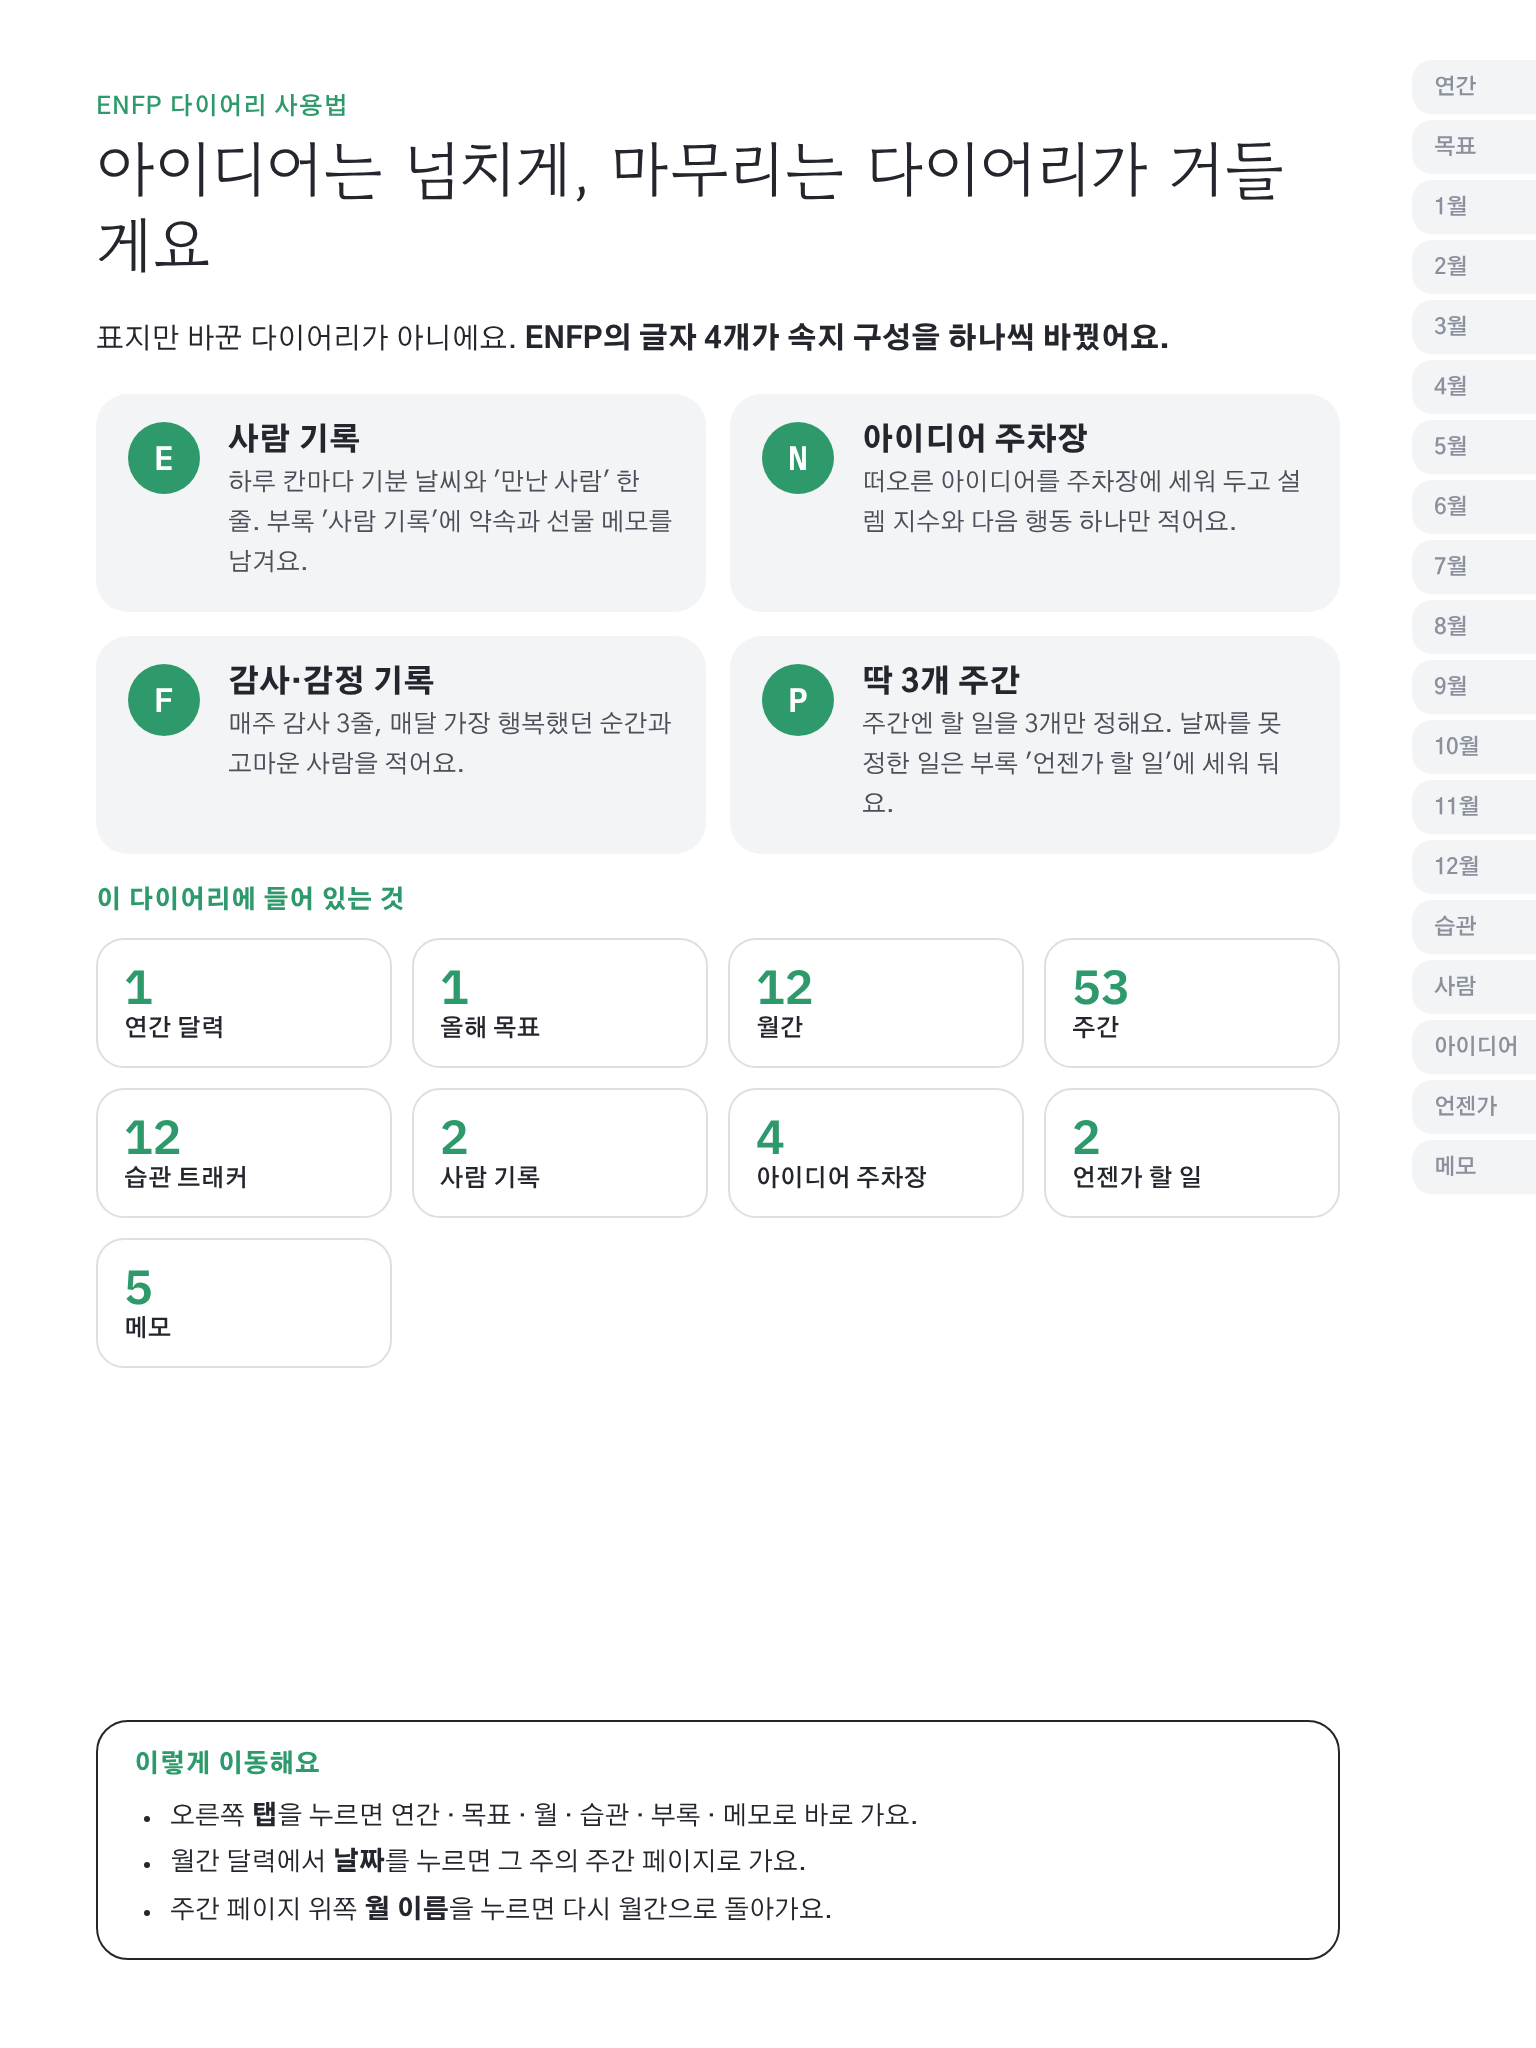
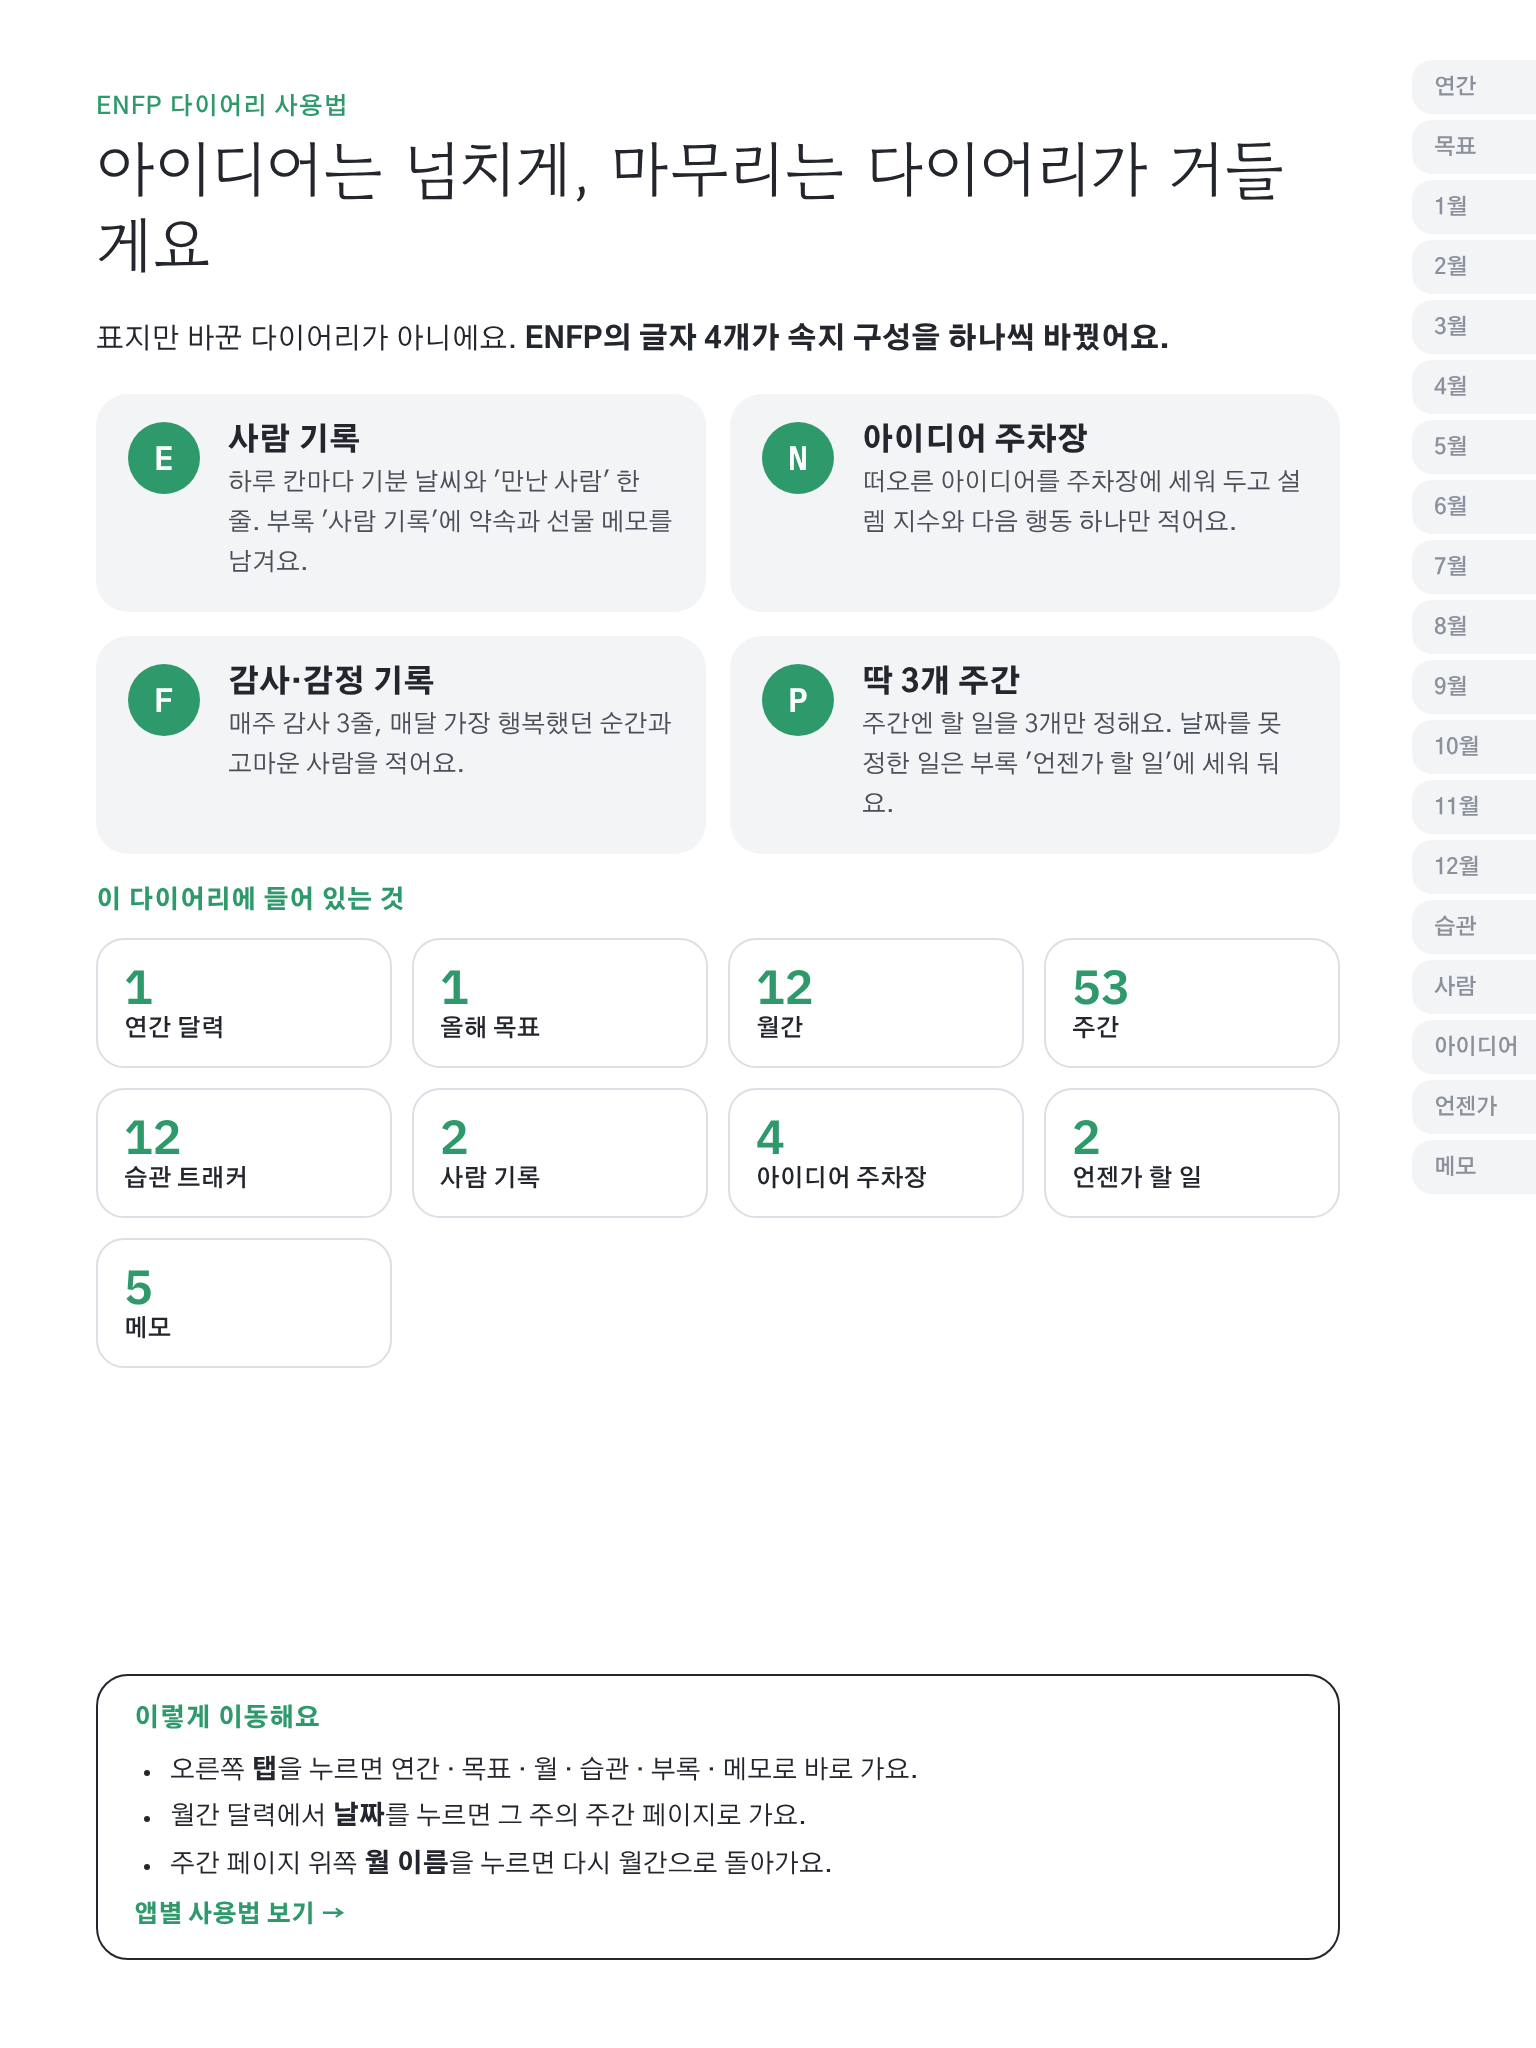
2027 디지털 다이어리: 갤럭시탭 버전과 앱별 사용법
- build.js 에 기기 옵션: ipad(768×1024, 3:4) / galaxy(800×1280, 10:16)
- 사용법 다음 장에 기기별 '앱에서 쓰는 법' (굿노트·노타빌리티 / 삼성노트·플렉슬·노트쉘프)과 링크가 안 눌릴 때 안내
- 갤럭시탭 미리보기, README 갱신

Claude-Session: https://claude.ai/code/session_01UoHm6Yu3G7F2HrjYKC9yNR

Changed region(s): [[0.0625, 0.8125, 0.5312, 0.9375], [0.5625, 0.8438, 0.5938, 0.9062]]

diff --git a/diary-2027/build.js b/diary-2027/build.js
@@ -1,5 +1,7 @@
 // 2027 디지털 다이어리(굿노트·노타빌리티용 PDF) 생성기
-// 사용법: node diary-2027/build.js ENFP   → diary-2027/out/2027-diary-ENFP.pdf 와 미리보기 PNG
+// 사용법: node diary-2027/build.js ENFP [ipad|galaxy]
+//   ipad   → out/2027-diary-ENFP.pdf (3:4, 기본값)
+//   galaxy → out/2027-diary-ENFP-galaxy.pdf (갤럭시탭 10:16)
 // MBTI 글자 4개가 각각 속지 모듈을 정한다:
 //   E/I  하루 칸 표시(기분 날씨+만난 사람 / 에너지 배터리) · 부록(사람 기록 / 충전 노트)
 //   N/S  부록(아이디어 주차장 / 월별 가계부)
@@ -37,7 +39,10 @@ const SECTIONS = [
 ];
 
 const YEAR = 2027;
-const W = 768, H = 1024;                     // 아이패드 세로 비율(3:4)
+const DEVICE = (process.argv[3] || "ipad").toLowerCase();
+if (!["ipad", "galaxy"].includes(DEVICE)) { console.error("기기는 ipad 또는 galaxy 로 넣어 주세요."); process.exit(1); }
+const [W, H] = DEVICE === "galaxy" ? [800, 1280] : [768, 1024];   // 갤럭시탭 10:16 / 아이패드 3:4
+const SUFFIX = DEVICE === "galaxy" ? "-galaxy" : "";
 const WEEK0 = new Date(YEAR - 1, 11, 28);    // 2027년 첫 주의 월요일 (12월 28일)
 const DAY = 864e5;
 const HOLIDAYS = { "1-1": "신정", "3-1": "삼일절", "5-5": "어린이날", "6-6": "현충일", "8-15": "광복절", "10-3": "개천절", "10-9": "한글날", "12-25": "성탄절" };
@@ -60,6 +65,30 @@ function tabs(active) {
 }
 const page = (id, active, body, cls = "") => `<section class="page ${cls}" id="${id}">${body}${active === null ? "" : tabs(active)}</section>`;
 const head = (kicker, title, word, kickerHref) => `<header class="ph row"><div>${kickerHref ? `<a class="kicker" href="#${kickerHref}">${kicker} ←</a>` : `<span class="kicker">${kicker}</span>`}<h1>${title}</h1></div>${word ? `<p class="word">${word}</p>` : ""}</header>`;
+
+
+// 앱별 사용법: 기기에 맞는 앱만 보여 준다. 메뉴 이름은 앱 버전마다 조금 다를 수 있다.
+const APPS = {
+  ipad: [
+    ["굿노트", ["파일 앱에서 PDF를 길게 누르고 공유 → 굿노트를 고르거나, 굿노트에서 + → 가져오기로 불러와요.", "링크가 안 눌리면 펜 도구를 잠깐 끄고(읽기 모드) 눌러 보세요."]],
+    ["노타빌리티", ["노타빌리티에서 + → 가져오기 → 파일로 PDF를 불러와요.", "링크는 펜이 아닌 손가락으로 톡 누르면 이동해요."]],
+  ],
+  galaxy: [
+    ["삼성노트", ["삼성노트 첫 화면 오른쪽 위 메뉴에서 PDF 가져오기를 골라 불러와요.", "링크는 읽기 모드에서 눌러야 이동해요. 오른쪽 위 읽기 모드 아이콘을 켠 뒤 탭을 눌러 보세요."]],
+    ["플렉슬", ["플렉슬에서 문서 추가 → 파일로 PDF를 불러와요.", "링크는 필기 도구를 끈 상태에서 누르면 이동해요."]],
+    ["노트쉘프", ["노트쉘프에서 + → 가져오기로 PDF를 불러와요.", "링크는 손가락으로 톡 누르면 이동해요."]],
+  ],
+};
+function apps() {
+  return page("apps", "", `
+    ${head(DEVICE === "galaxy" ? "갤럭시탭용" : "아이패드용", "앱에서 쓰는 법", "다이어리 칸은 그대로, 링크로 이동하며 써요.")}
+    <div class="apps">${APPS[DEVICE].map(([name, steps]) => `<div class="app"><h2>${name}</h2><ol>${steps.map((t) => `<li>${t}</li>`).join("")}</ol></div>`).join("")}</div>
+    <div class="map"><h2>링크가 안 눌릴 때</h2><ul>
+      <li>펜이나 필기 도구가 켜져 있으면 링크 대신 필기가 돼요. <b>읽기 모드</b>나 손가락 터치로 눌러 보세요.</li>
+      <li>PDF를 다른 앱에서 '이미지로' 내보냈다 다시 가져오면 링크가 사라져요. <b>받은 PDF 그대로</b> 가져오세요.</li>
+      <li>메뉴 이름은 앱 버전마다 조금 다를 수 있어요.</li></ul></div>
+    <a class="jump next" href="#year">연간 달력으로 →</a>`);
+}
 
 // ---------- 앞부분 ----------
 function cover() {
@@ -87,7 +116,7 @@ function guide() {
     <div class="map"><h2>이렇게 이동해요</h2><ul>
       <li>오른쪽 <b>탭</b>을 누르면 연간 · 목표 · 월 · 습관 · 부록 · 메모로 바로 가요.</li>
       <li>월간 달력에서 <b>날짜</b>를 누르면 그 주의 주간 페이지로 가요.</li>
-      <li>주간 페이지 위쪽 <b>월 이름</b>을 누르면 다시 월간으로 돌아가요.</li></ul></div>`);
+      <li>주간 페이지 위쪽 <b>월 이름</b>을 누르면 다시 월간으로 돌아가요.</li></ul><a class="jump" href="#apps">앱별 사용법 보기 →</a></div>`);
 }
 
 function miniMonth(m) {
@@ -287,6 +316,9 @@ h2 { font-size: 12.5px; font-weight: 800; color: var(--acc); letter-spacing: .02
 .pg b { font-family: "IBM Plex Mono", monospace; font-size: 24px; color: var(--acc); line-height: 1; }
 .pg span { font-size: 12px; font-weight: 600; }
 .map { margin-top: auto; border: 1.5px solid var(--ink); border-radius: 16px; padding: 14px 18px; display: grid; gap: 8px; }
+.apps { display: grid; gap: 14px; }
+.app { background: var(--soft); border-radius: 16px; padding: 16px 18px; display: grid; gap: 8px; }
+.app h2 { font-size: 18px; } .app ol { padding-left: 20px; display: grid; gap: 6px; font-size: 13.5px; line-height: 1.6; }
 .map ul { padding-left: 18px; display: grid; gap: 4px; font-size: 13px; line-height: 1.5; }
 
 /* 연간 */
@@ -402,7 +434,7 @@ h2 { font-size: 12.5px; font-weight: 800; color: var(--acc); letter-spacing: .02
 `;
 
 function html() {
-  const pages = [cover(), guide(), year(), goals()];
+  const pages = [cover(), guide(), apps(), year(), goals()];
   for (let m = 0; m < 12; m++) pages.push(month(m));
   for (let w = 0; w < WEEKS; w++) pages.push(week(w));
   for (let m = 0; m < 12; m++) pages.push(habit(m));
@@ -413,7 +445,7 @@ function html() {
 <style>${CSS}</style></head><body>${pages.join("\n")}</body></html>` };
 }
 
-module.exports = { html, W, H, TYPE, SECTIONS };
+module.exports = { html, W, H, TYPE, SECTIONS, DEVICE, SUFFIX };
 
 // 직접 실행할 때만 PDF를 만든다 (example.js 가 html() 만 빌려 쓸 수 있게)
 if (require.main === module) (async () => {
@@ -424,11 +456,11 @@ if (require.main === module) (async () => {
   const p = await b.newPage({ viewport: { width: W, height: H } });
   await p.setContent(doc, { waitUntil: "networkidle" });
   await p.evaluate(() => document.fonts.ready);
-  const pdf = path.join(out, `2027-diary-${TYPE}.pdf`);
+  const pdf = path.join(out, `2027-diary-${TYPE}${SUFFIX}.pdf`);
   await p.pdf({ path: pdf, width: `${W}px`, height: `${H}px`, printBackground: true, preferCSSPageSize: true });
   // 상세페이지용 미리보기
-  const shots = ["cover", "guide", "year", "goals", "m1", "w1", "h1", ...SECTIONS.map((s) => `${s.id}1`)];
-  const dir = path.join(out, `preview-${TYPE}`);
+  const shots = ["cover", "guide", "apps", "year", "goals", "m1", "w1", "h1", ...SECTIONS.map((s) => `${s.id}1`)];
+  const dir = path.join(out, `preview-${TYPE}${SUFFIX}`);
   fs.rmSync(dir, { recursive: true, force: true });
   fs.mkdirSync(dir, { recursive: true });
   const p2 = await b.newPage({ viewport: { width: W, height: H }, deviceScaleFactor: 2 });
@@ -436,5 +468,5 @@ if (require.main === module) (async () => {
   await p2.evaluate(() => document.fonts.ready);
   for (const [i, id] of shots.entries()) await (await p2.$(`#${id}`)).screenshot({ path: path.join(dir, `${String(i + 1).padStart(2, "0")}-${id}.png`) });
   await b.close();
-  console.log(`${pdf} (${count}쪽, ${WEEKS}주) / 미리보기 ${shots.length}장`);
+  console.log(`${pdf} (${count}쪽, ${W}×${H}, ${WEEKS}주) / 미리보기 ${shots.length}장`);
 })();

diff --git a/diary-2027/README.md b/diary-2027/README.md
@@ -3,12 +3,14 @@
 굿노트·노타빌리티용 하이퍼링크 PDF 다이어리 생성기입니다.
 
 ```bash
-node diary-2027/build.js ENFP        # PDF + 속지 미리보기
+node diary-2027/build.js ENFP        # 아이패드용(3:4) PDF + 속지 미리보기
+node diary-2027/build.js ENFP galaxy # 갤럭시탭용(10:16) PDF
 node diary-2027/example.js ENFP      # 손글씨로 채운 사용 예시 5장
 node diary-2027/compare.js ENFP ISTJ # 두 유형 비교 이미지
 ```
 
-- `out/2027-diary-<유형>.pdf`: 판매용 파일. 저장소에는 올리지 않습니다.
+- `out/2027-diary-<유형>.pdf`, `out/2027-diary-<유형>-galaxy.pdf`: 판매용 파일. 저장소에는 올리지 않습니다.
+- 사용법 다음 장에 기기별 **앱에서 쓰는 법**이 들어갑니다. 아이패드는 굿노트·노타빌리티, 갤럭시탭은 삼성노트(읽기 모드에서 링크)·플렉슬·노트쉘프입니다.
 - `out/preview-<유형>/`, `out/example-<유형>/`, `out/compare-*.png`: 상세페이지용 이미지
 
 ## 글자 4개가 속지를 바꾼다
@@ -25,5 +27,6 @@ node diary-2027/compare.js ENFP ISTJ # 두 유형 비교 이미지
 구성은 글자로 자동으로 정해지므로 `types.js`에 표지 문구와 월별 한마디 12줄만 넣으면 됩니다. 색은 성향 묶음으로 맞춥니다: NF 초록, NT 보라, SJ 파랑, SP 노랑.
 
 ## 판매 전에 확인할 것
+- **실기기 확인**: 갤럭시탭 삼성노트에서 PDF를 가져와 읽기 모드에서 탭·날짜 링크가 이동하는지 한 번 확인하세요. 앱별 사용법의 메뉴 이름도 실제 화면과 맞춰 주세요.
 - **공휴일**: 날짜가 고정된 공휴일만 표시했습니다. 설날·추석·부처님오신날(음력)과 대체공휴일은 2027년 공식 달력을 확인한 뒤 `build.js`의 `HOLIDAYS`에 추가하세요.
 - **상표**: MBTI는 The Myers-Briggs Company의 등록상표입니다. 상품명에는 "ENFP 다이어리"처럼 유형 이름만 쓰고, 공식 상품처럼 보이지 않게 하세요.
